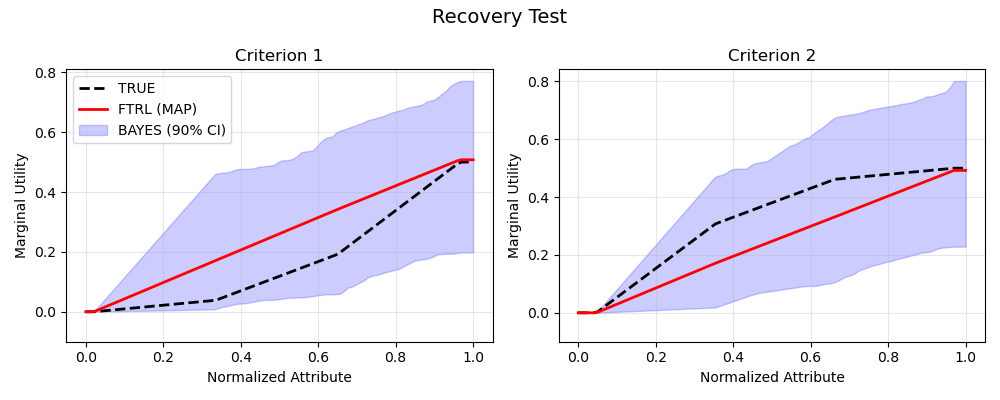
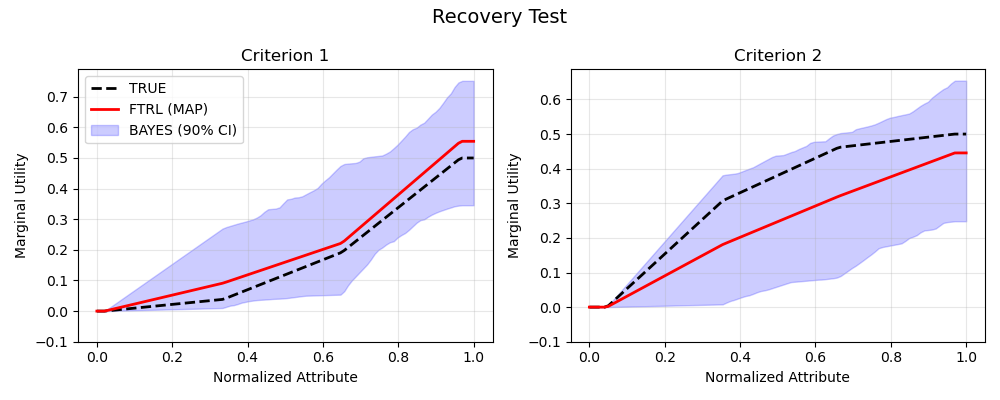
joint-v1: theta_0 = 0 joint direction+intensity likelihood (authors' final decision)
Revised Decision 5 after the conditional-model pilot showed e=0 responses lose
all direction information (Inc=0 accuracy drop): the e=0 band returns to
(0, theta_1), so each adjacent-gap term is the joint likelihood
P(observed direction, e | x, phi) with reversal mass 1 - sigma(z).

- engine: k=0 term back to log[sigma(u) - sigma(u - theta_1)]; docstring updated
- test_recovery: argmax labels under the joint model (MSE 0.012 -> 0.005 on the
  same mostly-e=0 labels: zero-card gaps are informative again)
- campaign re-tagged joint-v1 (scripts renamed, arms *_ADJJ1/*_ALLJ1,
  grid_results_joint_v1.npz); conditional-model pilot kept in
  grid_results_adjacent_v1.npz as a sensitivity record
- case study invariant to theta_0 (no zero-card responses; reruns bit-identically)

diff --git a/analyze_joint_v1.py b/analyze_joint_v1.py
@@ -1,15 +1,15 @@
 """
-Analysis / export for the adjacent-v1 campaign (grid_results_adjacent_v1.npz).
+Analysis / export for the joint-v1 campaign (grid_results_joint_v1.npz).
 
-Produces (into figs/adjacent_v1/ and CSV at repo root):
-  1. grid_results_adjacent_v1.csv  - long-format export incl. per-step log-loss and runtimes
+Produces (into figs/joint_v1/ and CSV at repo root):
+  1. grid_results_joint_v1.csv  - long-format export incl. per-step log-loss and runtimes
   2. evolution_<metric>.png        - 4-arm step evolution per Inc level (pilot slice F1=10, F2=3, AR=K=3)
   3. logloss_cumulative.png        - cumulative prequential log-loss vs n_T (plan C14), with
                                      best-fixed-in-hindsight benchmark on the pilot cells
   4. fig_overall_v1.png / fig_factors_v1.png - paper-style figures for the ADJACENT arms
                                      (AR==K, T in {1,3,5,10}) over whatever configs are present
 
-Usage:  C:\\Users\\marco\\anaconda3\\python.exe analyze_adjacent_v1.py [--no-hindsight]
+Usage:  C:\\Users\\marco\\anaconda3\\python.exe analyze_joint_v1.py [--no-hindsight]
 """
 import os
 import re
@@ -21,21 +21,21 @@ import matplotlib
 matplotlib.use('Agg')
 import matplotlib.pyplot as plt
 
-NPZ = "grid_results_adjacent_v1.npz"
-OUT_DIR = os.path.join("figs", "adjacent_v1")
-CSV_PATH = "grid_results_adjacent_v1.csv"
-ARMS = ['FTRL_DOR_ADJV1', 'BAYES_DOR_ADJV1', 'FTRL_DOR_ALLV1', 'BAYES_DOR_ALLV1']
+NPZ = "grid_results_joint_v1.npz"
+OUT_DIR = os.path.join("figs", "joint_v1")
+CSV_PATH = "grid_results_joint_v1.csv"
+ARMS = ['FTRL_DOR_ADJJ1', 'BAYES_DOR_ADJJ1', 'FTRL_DOR_ALLJ1', 'BAYES_DOR_ALLJ1']
 ARM_LABEL = {
-    'FTRL_DOR_ADJV1': 'FTRL-DOR (adjacent)',
-    'BAYES_DOR_ADJV1': 'BAYES-DOR (adjacent)',
-    'FTRL_DOR_ALLV1': 'FTRL-DOR (all-pairs)',
-    'BAYES_DOR_ALLV1': 'BAYES-DOR (all-pairs)',
+    'FTRL_DOR_ADJJ1': 'FTRL-DOR (adjacent)',
+    'BAYES_DOR_ADJJ1': 'BAYES-DOR (adjacent)',
+    'FTRL_DOR_ALLJ1': 'FTRL-DOR (all-pairs)',
+    'BAYES_DOR_ALLJ1': 'BAYES-DOR (all-pairs)',
 }
 ARM_STYLE = {
-    'FTRL_DOR_ADJV1': dict(color='#1f4fd8', ls='-', marker='o'),
-    'BAYES_DOR_ADJV1': dict(color='#e8810c', ls='-', marker='s'),
-    'FTRL_DOR_ALLV1': dict(color='#1f4fd8', ls='--', marker='o', alpha=0.55),
-    'BAYES_DOR_ALLV1': dict(color='#e8810c', ls='--', marker='s', alpha=0.55),
+    'FTRL_DOR_ADJJ1': dict(color='#1f4fd8', ls='-', marker='o'),
+    'BAYES_DOR_ADJJ1': dict(color='#e8810c', ls='-', marker='s'),
+    'FTRL_DOR_ALLJ1': dict(color='#1f4fd8', ls='--', marker='o', alpha=0.55),
+    'BAYES_DOR_ALLJ1': dict(color='#e8810c', ls='--', marker='s', alpha=0.55),
 }
 METRICS = ['asrs', 'asps', 'aios']
 PILOT = dict(F1=10, F2=3, AR=3, K=3)
@@ -49,7 +49,7 @@ def parse_config(config_str):
 
 def load_results():
     if not os.path.exists(NPZ):
-        sys.exit(f"{NPZ} not found - run run_grid_adjacent_v1.py first")
+        sys.exit(f"{NPZ} not found - run run_grid_joint_v1.py first")
     return np.load(NPZ, allow_pickle=True)['results'].item()
 
 
@@ -109,7 +109,7 @@ def plot_evolution(results):
             continue
         axes[0].set_ylabel(metric.upper())
         axes[0].legend(fontsize=8)
-        fig.suptitle(f"adjacent-v1 pilot slice (F1={PILOT['F1']}, F2={PILOT['F2']}, "
+        fig.suptitle(f"joint-v1 pilot slice (F1={PILOT['F1']}, F2={PILOT['F2']}, "
                      f"AR=K={PILOT['K']}): {metric.upper()}")
         fig.tight_layout()
         fig.savefig(os.path.join(OUT_DIR, f"evolution_{metric}.png"), dpi=150)
@@ -181,7 +181,7 @@ def plot_logloss(results, with_hindsight=True):
             st = ARM_STYLE[sub_fold]
             ax.plot(np.nanmean(n_t, axis=1), np.nanmean(cum, axis=1),
                     label=ARM_LABEL[sub_fold], **st)
-            if with_hindsight and sub_fold.endswith('ADJV1') and sub_fold.startswith('FTRL'):
+            if with_hindsight and sub_fold.endswith('ADJJ1') and sub_fold.startswith('FTRL'):
                 try:
                     hs = hindsight_loss(dataset_fold, PILOT['F1'], PILOT['F2'], 10,
                                         int(loss.shape[1]), 'adjacent')
@@ -212,7 +212,7 @@ def paper_figs(results):
         cfg = parse_config(config_str)
         if cfg['AR'] != cfg['K']:
             continue
-        for sub_fold in ['FTRL_DOR_ADJV1', 'BAYES_DOR_ADJV1']:
+        for sub_fold in ['FTRL_DOR_ADJJ1', 'BAYES_DOR_ADJJ1']:
             if sub_fold not in arms:
                 continue
             md = arms[sub_fold]
@@ -238,8 +238,8 @@ def paper_figs(results):
     # Overall bars
     fig, ax = plt.subplots(figsize=(6, 3.6))
     xs = np.arange(len(METRICS))
-    for off, method, color in [(-0.18, 'FTRL_DOR_ADJV1', '#1f4fd8'),
-                               (0.18, 'BAYES_DOR_ADJV1', '#e8810c')]:
+    for off, method, color in [(-0.18, 'FTRL_DOR_ADJJ1', '#1f4fd8'),
+                               (0.18, 'BAYES_DOR_ADJJ1', '#e8810c')]:
         means = [sel(method, m).mean() for m in METRICS]
         cis = [1.96 * sel(method, m).std() / np.sqrt(len(sel(method, m))) for m in METRICS]
         ax.bar(xs + off, means, width=0.34, yerr=cis, capsize=3,
@@ -248,7 +248,7 @@ def paper_figs(results):
             ax.text(x, v + 0.02, f"{v:.3f}", ha='center', fontsize=8)
     ax.set_xticks(xs); ax.set_xticklabels([m.upper() for m in METRICS])
     ax.set_ylim(0, 1); ax.legend(); ax.grid(axis='y', alpha=0.3)
-    ax.set_title("adjacent-v1: overall mean accuracy (AR=K, T in {1,3,5,10})")
+    ax.set_title("joint-v1: overall mean accuracy (AR=K, T in {1,3,5,10})")
     fig.tight_layout()
     fig.savefig(os.path.join(OUT_DIR, "fig_overall_v1.png"), dpi=150)
     plt.close(fig)
@@ -261,8 +261,8 @@ def paper_figs(results):
     for r, metric in enumerate(METRICS):
         for c, (fac, levels) in enumerate(factors):
             ax = axes[r, c]
-            for method, st in [('FTRL_DOR_ADJV1', ARM_STYLE['FTRL_DOR_ADJV1']),
-                               ('BAYES_DOR_ADJV1', ARM_STYLE['BAYES_DOR_ADJV1'])]:
+            for method, st in [('FTRL_DOR_ADJJ1', ARM_STYLE['FTRL_DOR_ADJJ1']),
+                               ('BAYES_DOR_ADJJ1', ARM_STYLE['BAYES_DOR_ADJJ1'])]:
                 means, cis, lv_present = [], [], []
                 for lv in levels:
                     vals = sel(method, metric, **{fac: lv})
@@ -283,7 +283,7 @@ def paper_figs(results):
                 ax.set_ylabel(metric.upper())
             ax.grid(alpha=0.3)
     axes[0, 0].legend(fontsize=7)
-    fig.suptitle("adjacent-v1: marginal effects (AR=K)")
+    fig.suptitle("joint-v1: marginal effects (AR=K)")
     fig.tight_layout()
     fig.savefig(os.path.join(OUT_DIR, "fig_factors_v1.png"), dpi=150)
     plt.close(fig)

diff --git a/run_grid_joint_v1.py b/run_grid_joint_v1.py
@@ -1,16 +1,17 @@
 """
-adjacent-v1 grid campaign (migration plan C4-C15, Decisions 4/5/6 of 2026-08-06).
+joint-v1 grid campaign (migration plan C4-C15; Decisions 4/6 of 2026-08-06 and the
+revised Decision 5 of 2026-08-06 evening: theta_0 = 0, JOINT direction+intensity CLM).
 
-Runs FOUR arms under the NEW engine (theta_0 = -inf conditional CLM, rho = 1e-6,
+Runs FOUR arms under the NEW engine (theta_0 = 0 joint CLM, rho = 1e-6,
 fresh per-(table,step) seeds, prequential log-loss + HMC diagnostics recording):
 
-  FTRL_DOR_ADJV1 / BAYES_DOR_ADJV1  - adjacent-only likelihood (PRIMARY model)
-  FTRL_DOR_ALLV1 / BAYES_DOR_ALLV1  - all-pairs composite (ablation arm -> supplement)
+  FTRL_DOR_ADJJ1 / BAYES_DOR_ADJJ1  - adjacent-only likelihood (PRIMARY model)
+  FTRL_DOR_ALLJ1 / BAYES_DOR_ALLJ1  - all-pairs composite (ablation arm -> supplement)
 
 Sub_fold names carry the run tag so results can never mix with the legacy
 PASSIVE runs (old engine). Datasets are REUSED from datasets/grid_* (the DGP is
 unchanged by the migration; regeneration would alter them because the Thurstone
-noise is not seeded). Results npz: grid_results_adjacent_v1.npz.
+noise is not seeded). Results npz: grid_results_joint_v1.npz.
 
 Resumable: per-arm sample files are skipped if present; configs with all arms
 already in the npz are skipped.
@@ -37,7 +38,7 @@ if TEST_MODE:
     F_inc_list = [0]
     HM_0 = 4
 else:
-    print(">>> RUNNING FULL GRID (adjacent-v1) <<<")
+    print(">>> RUNNING FULL GRID (joint-v1) <<<")
     F1_list = [10, 20, 35, 50]
     F2_list = [3, 5, 7, 9]
     NUM_STEPS_list = [10]
@@ -47,16 +48,16 @@ else:
     HM_0 = 20
 
 ETA_MAX = 5
-RUN_TAG = 'adjacent-v1'
+RUN_TAG = 'joint-v1'
 RUN_SEED = 20260806  # global offset; per-(config, arm, table, step) seeds derived below
-SAVE_PATH = "grid_results_adjacent_v1_tiny.npz" if TEST_MODE else "grid_results_adjacent_v1.npz"
+SAVE_PATH = "grid_results_joint_v1_tiny.npz" if TEST_MODE else "grid_results_joint_v1.npz"
 
 # (sub_fold, expansion, uses_all_tables)
 ARMS = [
-    ('FTRL_DOR_ADJV1', 'adjacent', True),
-    ('BAYES_DOR_ADJV1', 'adjacent', False),
-    ('FTRL_DOR_ALLV1', 'all', True),
-    ('BAYES_DOR_ALLV1', 'all', False),
+    ('FTRL_DOR_ADJJ1', 'adjacent', True),
+    ('BAYES_DOR_ADJJ1', 'adjacent', False),
+    ('FTRL_DOR_ALLJ1', 'all', True),
+    ('BAYES_DOR_ALLJ1', 'all', False),
 ]
 
 
@@ -89,7 +90,7 @@ def run_single_config(config, hm_0):
     dataset_json = os.path.join("datasets", dataset_fold, f"f1_{f1}__f2_{f2}__nsteps_{steps}.json")
     if not os.path.exists(dataset_json):
         raise FileNotFoundError(
-            f"{dataset_json} missing - adjacent-v1 reuses the existing grid datasets; "
+            f"{dataset_json} missing - joint-v1 reuses the existing grid datasets; "
             "generate it explicitly first if this config is genuinely new")
 
     config_results = {}
@@ -134,7 +135,7 @@ def run_single_config(config, hm_0):
 
 
 def main():
-    print(f"Starting adjacent-v1 grid campaign ({len(ARMS)} arms)...")
+    print(f"Starting joint-v1 grid campaign ({len(ARMS)} arms)...")
     start_time = time.time()
 
     combinations = list(itertools.product(F1_list, F2_list, NUM_STEPS_list, A_R_list, K_list, F_inc_list))
@@ -160,7 +161,7 @@ def main():
 
     total_to_run = len(configs_to_run)
     if total_to_run == 0:
-        print("All adjacent-v1 configurations have already been run!")
+        print("All joint-v1 configurations have already been run!")
         return
     print(f"Configurations remaining: {total_to_run}")
 

diff --git a/inference/engine.py b/inference/engine.py
@@ -17,12 +17,15 @@ def robust_sigmoid(x):
 
 def _jax_log_prob_per_obs_untraced(omega, X_diff, etas, n_params, n_max, rho):
     """
-    Per-observation log P(eta | x, omega) under the conditional cumulative-link
-    model with theta_0 = -inf and theta_k = sum_{m<=k} (rho + delta_raw_m):
-      P(eta=0)          = sigma(theta_1 - u)
-      P(eta=k), 0<k<max = sigma(u - theta_k) - sigma(u - theta_{k+1})
-      P(eta=n_max)      = sigma(u - theta_{n_max})
-    Direction is conditioned on, not modelled (adjacent-v1 likelihood).
+    Per-observation log P(direction, eta | x, omega) under the JOINT
+    direction+intensity cumulative-link model with theta_0 = 0 and
+    theta_k = sum_{m<=k} (rho + delta_raw_m)  (authors' decision 2026-08-06):
+      P(obs direction, eta=0)     = sigma(u) - sigma(u - theta_1)      band (0, theta_1)
+      P(obs direction, eta=k)     = sigma(u - theta_k) - sigma(u - theta_{k+1})
+      P(obs direction, eta=n_max) = sigma(u - theta_{n_max})           right-censored
+    Categories sum to sigma(u); the remaining 1 - sigma(u) is the (never observed)
+    probability of the reversed direction, so each gap term models BOTH the observed
+    order of the pair and its card count (joint-v1 likelihood).
     """
     w = omega[:n_params]
     delta_raw = omega[n_params:]
@@ -43,7 +46,7 @@ def _jax_log_prob_per_obs_untraced(omega, X_diff, etas, n_params, n_max, rho):
         mask = (etas == k)
 
         if k == 0:
-            term = -jnp.logaddexp(0.0, u - theta[0])
+            term = stable_log_sigmoid_diff(theta[0], 0.0, u)
         elif k < n_max:
             term = stable_log_sigmoid_diff(theta[k], theta[k - 1], u)
         else:

diff --git a/experiments/test_recovery.py b/experiments/test_recovery.py
@@ -46,20 +46,21 @@ def generate_synthetic_data(num_alternatives=20, num_criteria=2, num_intervals=3
 
         u_diff = U_true[up_idx] - U_true[down_idx]
 
-        # Most likely 'eta' under the conditional CLM with theta_0 = -inf:
-        #   P(eta=0)          = sigma(theta_1 - u)
-        #   P(eta=k), 0<k<max = sigma(theta_{k+1} - u) - sigma(theta_k - u)
-        #   P(eta=n_max)      = 1 - sigma(theta_{n_max} - u)
+        # Most likely 'eta' under the JOINT direction+intensity CLM with theta_0 = 0
+        # (matches the engine's joint-v1 likelihood):
+        #   P(dir, eta=0)     = sigma(u) - sigma(u - theta_1)
+        #   P(dir, eta=k)     = sigma(u - theta_k) - sigma(u - theta_{k+1})
+        #   P(dir, eta=n_max) = sigma(u - theta_{n_max})
         best_eta = 0
         best_prob = -1
 
         for k in range(n_max + 1):
             if k == 0:
-                prob = expit(theta_true[0] - u_diff)
+                prob = expit(u_diff) - expit(u_diff - theta_true[0])
             elif k < n_max:
-                prob = expit(theta_true[k] - u_diff) - expit(theta_true[k-1] - u_diff)
+                prob = expit(u_diff - theta_true[k-1]) - expit(u_diff - theta_true[k])
             else:
-                prob = 1.0 - expit(theta_true[k-1] - u_diff)
+                prob = expit(u_diff - theta_true[k-1])
 
             if prob > best_prob:
                 best_prob = prob

diff --git a/pilot_joint_v1.py b/pilot_joint_v1.py
@@ -1,10 +1,10 @@
-"""Pilot slice of the adjacent-v1 campaign: the 4 configs F1=10, F2=3, S=10, AR=K=3,
-Inc in {0,15,35,50}, all 4 arms, merged into the same grid_results_adjacent_v1.npz
+"""Pilot slice of the joint-v1 campaign: the 4 configs F1=10, F2=3, S=10, AR=K=3,
+Inc in {0,15,35,50}, all 4 arms, merged into the same grid_results_joint_v1.npz
 (the full campaign will skip them on resume). Prints a final-step summary table."""
 import os
 import time
 import numpy as np
-import run_grid_adjacent_v1 as camp
+import run_grid_joint_v1 as camp
 
 PILOT = [(10, 3, 10, 3, 3, inc) for inc in [0, 15, 35, 50]]
 
